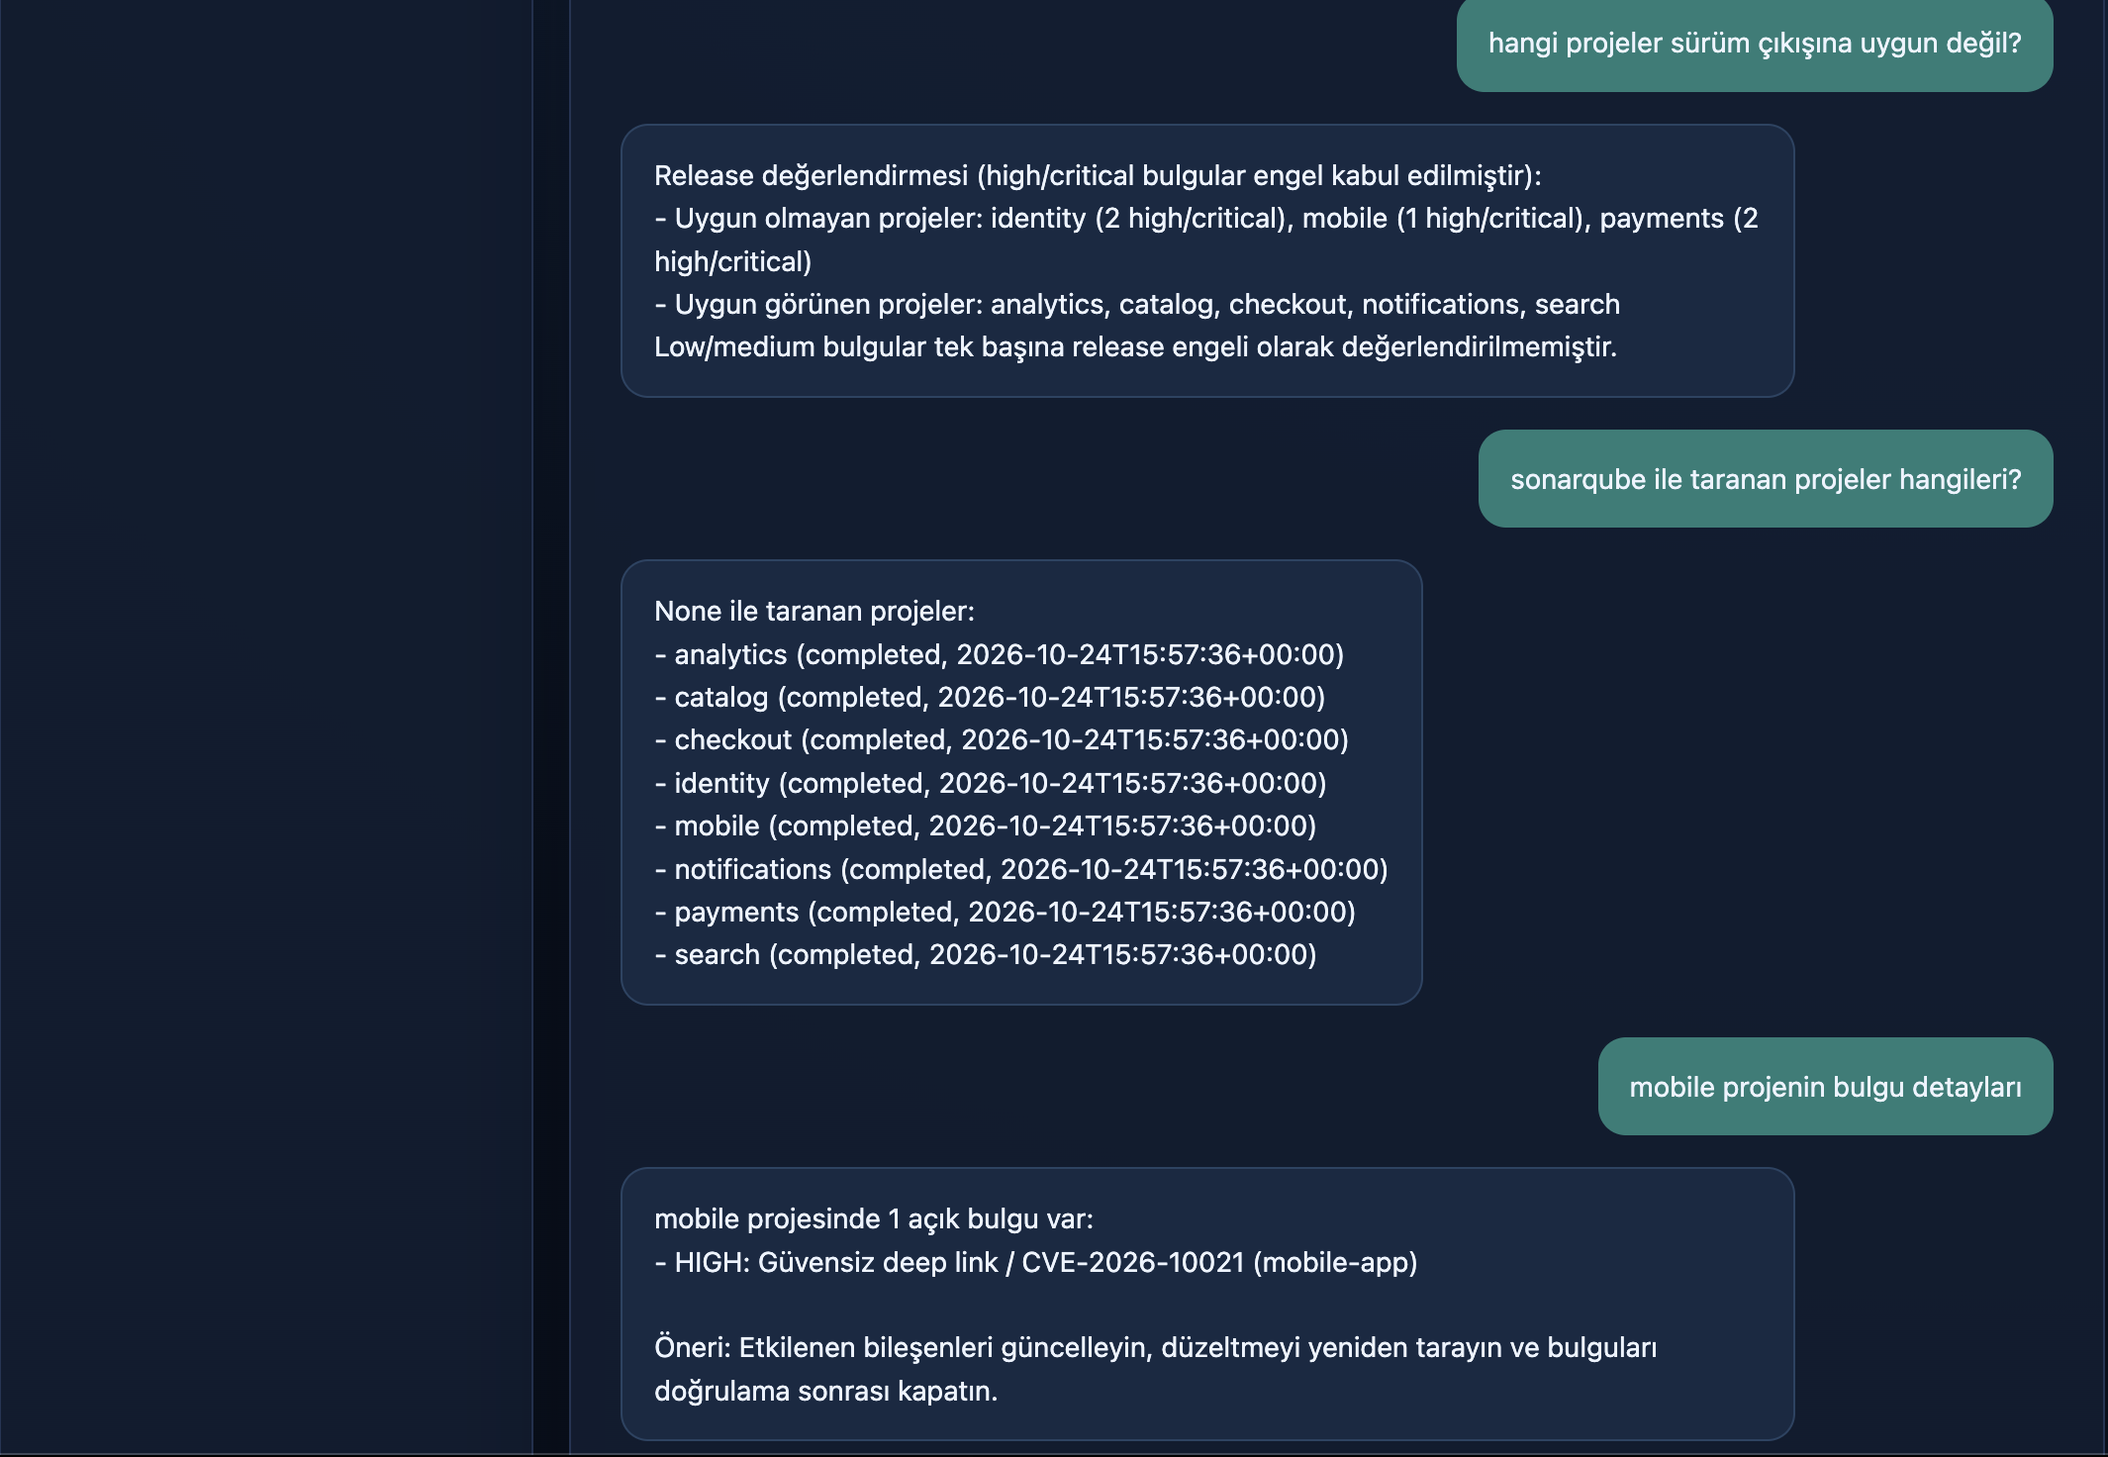
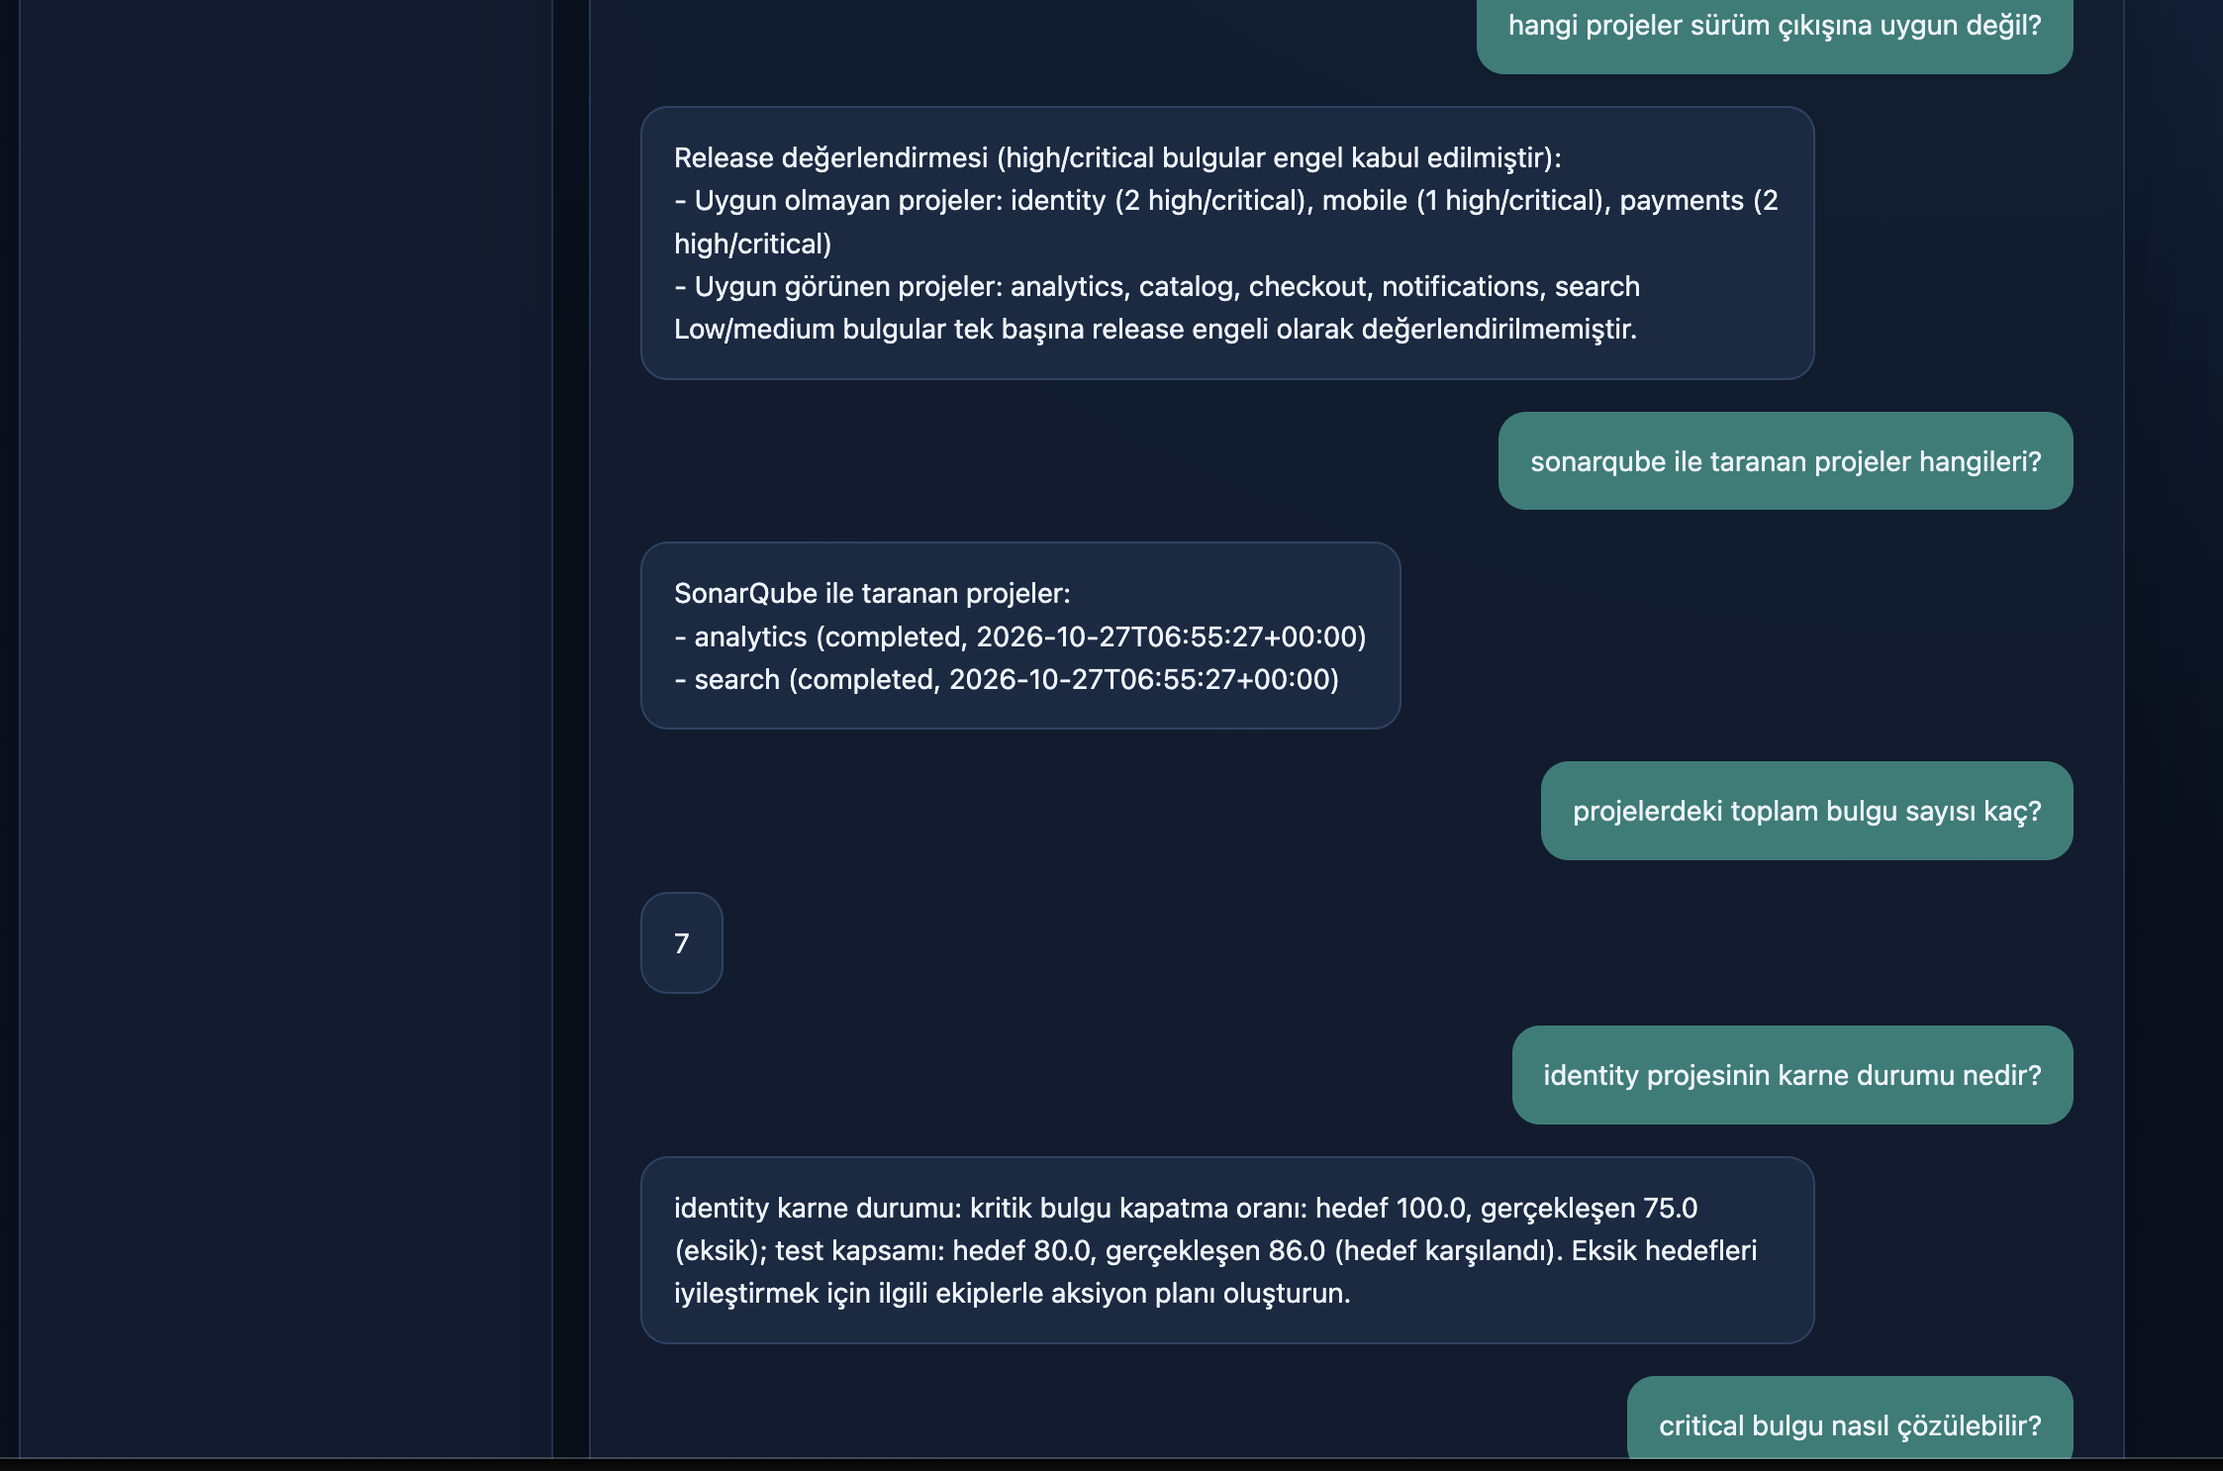
some fixes

Changed region(s): [[0.0, 0.0, 1.0, 1.0], [0.6817, 0.5, 0.9606, 0.5938]]

diff --git a/agents/supervisor.py b/agents/supervisor.py
@@ -18,6 +18,7 @@ from .global_release_agent import GlobalReleaseAgent
 from .global_scorecard_agent import GlobalScorecardAgent
 from .global_metrics_agent import GlobalMetricsAgent
 from .scanner_projects_agent import ScannerProjectsAgent
+from .scan_agent import ScanAgent
 from .job_agent import JobDiagnosticAgent
 from .knowledge_agent import KnowledgeAgent
 from .project_agent import ProjectAgent
@@ -32,7 +33,7 @@ AGENT_NAMES = Literal[
     "finding_projects_agent", "global_findings_agent", "findings_agent",
     "global_release_agent", "release_risk_agent", "global_scorecard_agent",
     "scorecard_agent", "job_diagnostic_agent", "project_agent", "knowledge_agent",
-    "global_metrics_agent", "scanner_projects_agent",
+    "global_metrics_agent", "scanner_projects_agent", "scan_agent",
 ]
 
 
@@ -47,6 +48,7 @@ class GraphState(TypedDict, total=False):
     question: str
     project: str | None
     last_project: str | None
+    scanner: str | None
     handoff: str
     answer: str
     history: list[tuple[str, str]]
@@ -67,6 +69,7 @@ Sen DevSecOps Supervisor Agent'sın. Kullanıcıyı aşağıdaki specialist agen
 - knowledge_agent: remediation, çözüm önerisi ve güvenlik bilgisi
 - global_metrics_agent: sadece istenen aggregate sayı
 - scanner_projects_agent: belirli scanner ile taranan projeler
+- scan_agent: belirli projenin son başarılı tarama tarihi ve scan geçmişi
 
 Kullanıcı belirli bir proje adı vermediyse global agent seçilmelidir. Sadece kullanıcı açıkça önceki projeye gönderme yapıyorsa follow-up kapsamı kullan.
 "critical", "high", "medium" ve "low" severity filtrelerini soruda koru; yalnızca istenen seviyeleri döndüren specialist'i seç.
@@ -100,6 +103,7 @@ class SupervisorAgent:
             "knowledge_agent": KnowledgeAgent(),
             "global_metrics_agent": GlobalMetricsAgent(),
             "scanner_projects_agent": ScannerProjectsAgent(),
+            "scan_agent": ScanAgent(),
         }
         self.graph = self._build_graph()
         self.memory = ConversationMemory()
@@ -118,12 +122,14 @@ class SupervisorAgent:
 
     def _supervisor_node(self, state: GraphState) -> dict:
         known_projects = [str(project) for project in self.mcp.call("list_projects")]
+        known_scanners = [str(scanner) for scanner in self.mcp.call("list_scanners")]
         question_lower = state["question"].lower()
         explicit_project = next((project for project in known_projects if project.lower() in question_lower), None)
+        explicit_scanner = next((scanner for scanner in known_scanners if scanner.lower() in question_lower), None)
         followup_reference = any(token in question_lower.split() for token in ("bu", "şu", "bunlar", "önceki", "aynı"))
         structured_llm = self.llm.with_structured_output(Handoff)
         response = structured_llm.invoke([
-            SystemMessage(content=SUPERVISOR_PROMPT + f"\nGeçerli proje adları: {', '.join(known_projects)}\nBu mesajda açık proje: {explicit_project or 'yok'}\nAnaforik takip ifadesi: {'var' if followup_reference else 'yok'}"),
+            SystemMessage(content=SUPERVISOR_PROMPT + f"\nGeçerli proje adları: {', '.join(known_projects)}\nGeçerli scanner adları: {', '.join(known_scanners)}\nBu mesajda açık proje: {explicit_project or 'yok'}\nBu mesajda açık scanner: {explicit_scanner or 'yok'}\nAnaforik takip ifadesi: {'var' if followup_reference else 'yok'}"),
             *([HumanMessage(content=f"Önceki proje: {state.get('last_project')}")] if state.get("last_project") else []),
             HumanMessage(content=state["question"]),
         ])
@@ -134,7 +140,8 @@ class SupervisorAgent:
             project = state["last_project"]
         elif not project and response.scope == "followup" and followup_reference:
             project = state.get("last_project")
-        return {"handoff": response.agent, "project": project, "scanner": response.scanner, "last_project": project or state.get("last_project")}
+        scanner = explicit_scanner or response.scanner
+        return {"handoff": response.agent, "project": project, "scanner": scanner, "last_project": project or state.get("last_project")}
 
     @staticmethod
     def _normalize_project(candidate: str | None, known_projects: list[str]) -> str | None:

diff --git a/database/seed.py b/database/seed.py
@@ -4,7 +4,7 @@ from __future__ import annotations
 
 import argparse
 from contextlib import closing
-from datetime import datetime, timezone
+from datetime import datetime, timezone, timedelta
 from pathlib import Path
 
 from ..tools.database import connect, initialize_database, DEFAULT_DB_PATH
@@ -13,6 +13,8 @@ from ..tools.database import connect, initialize_database, DEFAULT_DB_PATH
 def seed(db_path: str | Path = DEFAULT_DB_PATH) -> Path:
     initialize_database(db_path)
     now = datetime.now(timezone.utc).replace(microsecond=0).isoformat()
+    scan_time = now
+    job_time = (datetime.fromisoformat(now) - timedelta(minutes=18)).isoformat()
     with closing(connect(db_path)) as conn:
         with conn:
             conn.executescript("DELETE FROM findings; DELETE FROM scan_details; DELETE FROM scans; DELETE FROM releases; DELETE FROM scorecards; DELETE FROM job_logs; DELETE FROM projects;")
@@ -32,7 +34,7 @@ def seed(db_path: str | Path = DEFAULT_DB_PATH) -> Path:
             }
             scan_ids = {}
             for project, (status, branch, commit, scanner, duration) in scans.items():
-                conn.execute("INSERT INTO scans(project_id,scanned_at,status,branch,commit_sha) VALUES (?,?,?,?,?)", (project_ids[project], now, status, branch, commit))
+                conn.execute("INSERT INTO scans(project_id,scanned_at,status,branch,commit_sha) VALUES (?,?,?,?,?)", (project_ids[project], scan_time, status, branch, commit))
                 scan_id = conn.execute("SELECT last_insert_rowid()").fetchone()[0]
                 scan_ids[project] = scan_id
                 conn.execute("INSERT INTO scan_details(scan_id,scanner,duration_seconds,total_findings,summary) VALUES (?,?,?,?,?)", (scan_id, scanner, duration, 0, f"{scanner} taraması tamamlandı."))
@@ -58,7 +60,7 @@ def seed(db_path: str | Path = DEFAULT_DB_PATH) -> Path:
             for project in project_names:
                 conn.executemany("INSERT INTO scorecards(project_id,metric,target,actual,measured_at) VALUES (?,?,?,?,?)", [(project_ids[project], "kritik bulgu kapatma oranı", 100, 75 if project in {"payments", "identity"} else 100, now), (project_ids[project], "test kapsamı", 80, 72 if project == "mobile" else 86, now)])
             jobs = [("payments", "nightly-scan", "failed", "Container registry erişimi zaman aşımına uğradı", "scanner-runner-01"), ("identity", "nightly-scan", "failed", "Snyk API rate limit aşıldı", "scanner-runner-03"), ("catalog", "nightly-scan", "success", None, "scanner-runner-02"), ("analytics", "nightly-scan", "success", None, "scanner-runner-04"), ("mobile", "mobile-security-scan", "failed", "MobSF worker bağlantısı kesildi", "mobile-runner-01"), ("notifications", "nightly-scan", "success", None, "scanner-runner-02"), ("checkout", "nightly-scan", "success", None, "scanner-runner-05"), ("search", "nightly-scan", "success", None, "scanner-runner-04")]
-            conn.executemany("INSERT INTO job_logs(project_id,job_name,status,started_at,finished_at,error,source) VALUES (?,?,?,?,?,?,?)", [(project_ids[p], j, st, now, now, e, src) for p, j, st, e, src in jobs])
+            conn.executemany("INSERT INTO job_logs(project_id,job_name,status,started_at,finished_at,error,source) VALUES (?,?,?,?,?,?,?)", [(project_ids[p], j, st, job_time, job_time, e, src) for p, j, st, e, src in jobs])
     return Path(db_path).resolve()
 
 

diff --git a/agents/global_findings_agent.py b/agents/global_findings_agent.py
@@ -29,10 +29,17 @@ class GlobalFindingsAgent:
             return state
         state.evidence = findings
         lines = [f"- {item['project']}: {item['severity'].upper()} — {item['title']}" for item in findings]
-        critical_high = sum(item["severity"] in {"critical", "high"} for item in findings)
+        if requested_severities == {"critical"}:
+            summary = f"Tüm projelerde {len(findings)} açık critical bulgu var:"
+        elif requested_severities == {"high"}:
+            summary = f"Tüm projelerde {len(findings)} açık high bulgu var:"
+        elif requested_severities == {"critical", "high"}:
+            summary = f"Tüm projelerde {len(findings)} açık high veya critical bulgu var:"
+        else:
+            summary = f"Tüm projelerde toplam {len(findings)} açık bulgu var:"
         state.answer = (
-            f"Tüm projelerde toplam {len(findings)} açık bulgu var; bunların {critical_high} tanesi high veya critical:\n" +
+            summary + "\n" +
             "\n".join(lines) +
-            "\n\nRelease değerlendirmesinde high/critical bulgular engel adayıdır; low/medium bulgular tek başına release engeli sayılmaz."
+            ("\n\nRelease değerlendirmesinde high/critical bulgular engel adayıdır; low/medium bulgular tek başına release engeli sayılmaz." if not requested_severities or requested_severities & {"high", "critical"} else "")
         )
         return state

diff --git a/tools/database.py b/tools/database.py
@@ -132,6 +132,8 @@ def total_open_findings(db_path: str | Path = DEFAULT_DB_PATH) -> int:
 
 
 def projects_by_scanner(scanner: str, db_path: str | Path = DEFAULT_DB_PATH) -> list[dict[str, Any]]:
+    if not scanner or not scanner.strip():
+        return []
     with readonly_connection(db_path) as conn:
         rows = conn.execute("""
             SELECT p.name AS project, d.scanner, s.status, s.scanned_at, d.total_findings
@@ -142,6 +144,12 @@ def projects_by_scanner(scanner: str, db_path: str | Path = DEFAULT_DB_PATH) -> 
             ORDER BY p.name
         """, (f"%{scanner}%",)).fetchall()
         return [dict(row) for row in rows]
+
+
+def list_scanners(db_path: str | Path = DEFAULT_DB_PATH) -> list[str]:
+    with readonly_connection(db_path) as conn:
+        rows = conn.execute("SELECT DISTINCT scanner FROM scan_details ORDER BY scanner").fetchall()
+        return [row["scanner"] for row in rows]
 
 
 def release_portfolio(db_path: str | Path = DEFAULT_DB_PATH) -> list[dict[str, Any]]:

diff --git a/agents/scan_agent.py b/agents/scan_agent.py
@@ -1,0 +1,23 @@
+"""Proje scan geçmişi ve son başarılı tarama agent'ı."""
+
+from ..tools.mcp_gateway import MCPGateway
+from .state import AgentState
+
+
+class ScanAgent:
+    name = "scan_agent"
+
+    def __init__(self):
+        self.mcp = MCPGateway()
+
+    def run(self, state: AgentState) -> AgentState:
+        if not state.project:
+            state.answer = "Tarama tarihini öğrenmek için bir proje adı belirtin."
+            return state
+        summary = self.mcp.call("get_project_summary", project=state.project)
+        scan = summary.get("scan") if isinstance(summary, dict) else None
+        if not scan:
+            state.answer = f"{state.project} için başarılı tarama kaydı bulunamadı."
+            return state
+        state.answer = f"{state.project} projesinin son başarılı tarama tarihi: {scan['scanned_at']}"
+        return state

diff --git a/tools/mcp_gateway.py b/tools/mcp_gateway.py
@@ -75,6 +75,7 @@ class MCPGateway:
             "get_project_summary": lambda: database.project_risk_summary(arguments["project"]) or {},
             "get_projects_with_findings": lambda: database.projects_with_open_findings(),
             "get_projects_by_scanner": lambda: database.projects_by_scanner(arguments["scanner"]),
+            "list_scanners": lambda: database.list_scanners(),
             "get_global_findings": lambda: database.all_open_findings(),
             "get_release_portfolio": lambda: database.release_portfolio(),
             "get_project_scorecard": lambda: database.scorecard_status(arguments["project"]) or [],

diff --git a/mcp/server.py b/mcp/server.py
@@ -38,6 +38,11 @@ def get_projects_by_scanner(scanner: str) -> list[dict]:
 
 
 @mcp.tool
+def list_scanners() -> list[str]:
+    return database.list_scanners()
+
+
+@mcp.tool
 def get_global_findings() -> list[dict]:
     return database.all_open_findings()
 

diff --git a/README.md b/README.md
@@ -59,6 +59,7 @@ flowchart TD
 | `GlobalFindingsAgent` | Tüm projelerde severity bazlı bulgu analizi yapar. |
 | `FindingProjectsAgent` | Açık bulgusu bulunan projeleri listeler. |
 | `ScannerProjectsAgent` | Scanner bazında taranan projeleri listeler. |
+| `ScanAgent` | Belirli projenin son başarılı tarama tarihini ve scan geçmişini verir. |
 | `ReleaseRiskAgent` | Belirli bir projenin release riskini analiz eder. |
 | `GlobalReleaseAgent` | Tüm projelerin release uygunluğunu karşılaştırır. |
 | `JobDiagnosticAgent` | Başarısız scheduled job kayıtlarını teşhis eder. |
@@ -201,29 +202,29 @@ pip check
 
 ## 11. Proje görselleri
 
-### Web chat, global bulgular ve release analizi
+### Global critical bulgular, proje bulguları ve release analizi
 
 ![DevSecOps Copilot chat ekranı](docs/screenshots/1.png)
 
-Bu ekran görüntüsünde global critical bulgu sorgusu, proje özel bulgu detayı ve release uygunluk analizi görülmektedir.
+Bu ekran görüntüsünde tüm projelerdeki critical bulgular, `identity` projesinin bulgu detayları ve release için uygun olmayan projeler gösterilmektedir.
 
-### Scanner ve proje bulgu analizi
+### Release, SonarQube, toplam bulgu ve karne sorguları
 
 ![Scanner ve proje bulgu analizleri](docs/screenshots/2.png)
 
-SonarQube ile taranan projelerin listelenmesi ve belirli bir projenin bulgu detayları gösterilmektedir.
+Bu ekranda release’e uygun olmayan projeler, SonarQube ile taranan projeler, toplam açık bulgu sayısı ve `identity` karne durumu görülmektedir.
 
-### Global metrik ve karne sorguları
+### Global bulgular ve karne cevapları
 
 ![Global metrik ve karne cevapları](docs/screenshots/3.png)
 
-Toplam açık bulgu sayısı, tüm projelerin bulgu listesi ve proje karne durumu örneklenmiştir.
+Toplam açık bulgu sayısı, tüm projelerin severity bazlı bulguları ve proje karne durumu örneklenmiştir.
 
-### Remediation ve job teşhisi
+### Remediation, job teşhisi ve scan tarihi
 
 ![Remediation ve job teşhisi](docs/screenshots/4.png)
 
-Kritik bulgu için remediation/NVD bilgisi ve başarısız scheduled job teşhisi gösterilmektedir.
+Kritik bulgu için remediation/NVD analizi, başarısız scheduled job teşhisi ve projenin son başarılı tarama tarihi gösterilmektedir.
 
 ## 12. Değerlendirme kriterleriyle eşleşme
 
@@ -232,4 +233,3 @@ Kritik bulgu için remediation/NVD bilgisi ve başarısız scheduled job teşhis
 - **İşlevsellik:** Global/proje bazlı sorular, severity filtreleri, release analizi, job teşhisi ve CVE remediation.
 - **Kod kalitesi:** Katmanlı klasör yapısı, salt-okunur tool’lar, environment tabanlı ayarlar ve testler.
 - **Dokümantasyon:** Kurulum, servis başlatma, örnek sorular, mimari diyagram ve görsel teslim planı.
-
